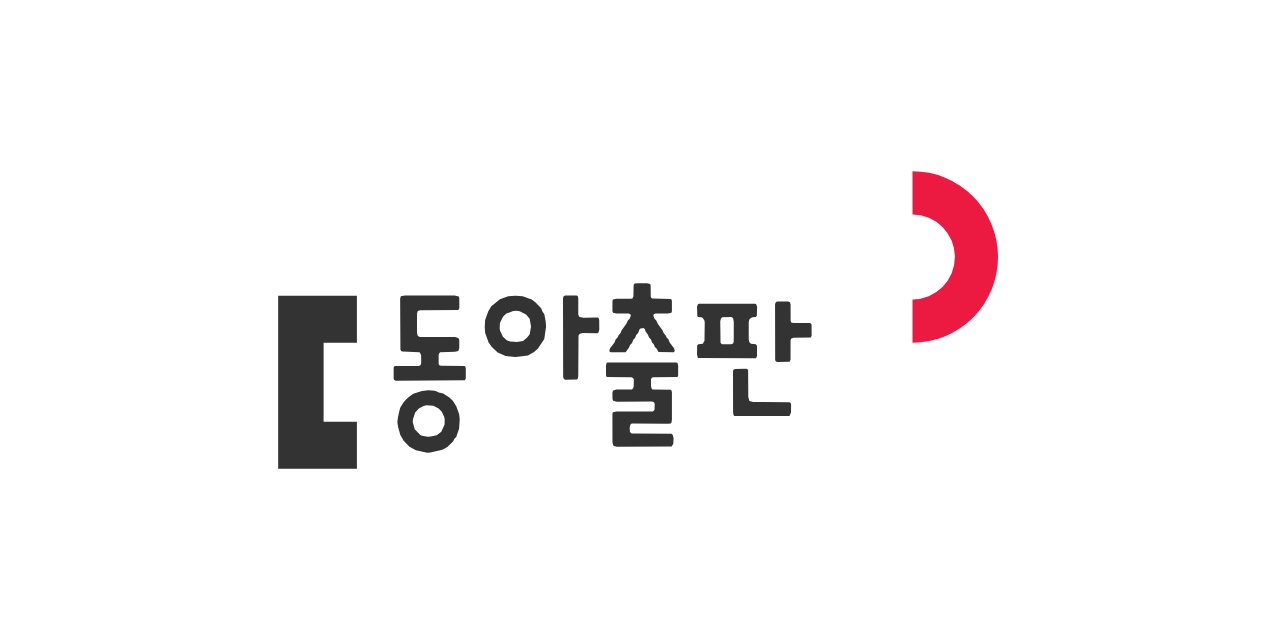
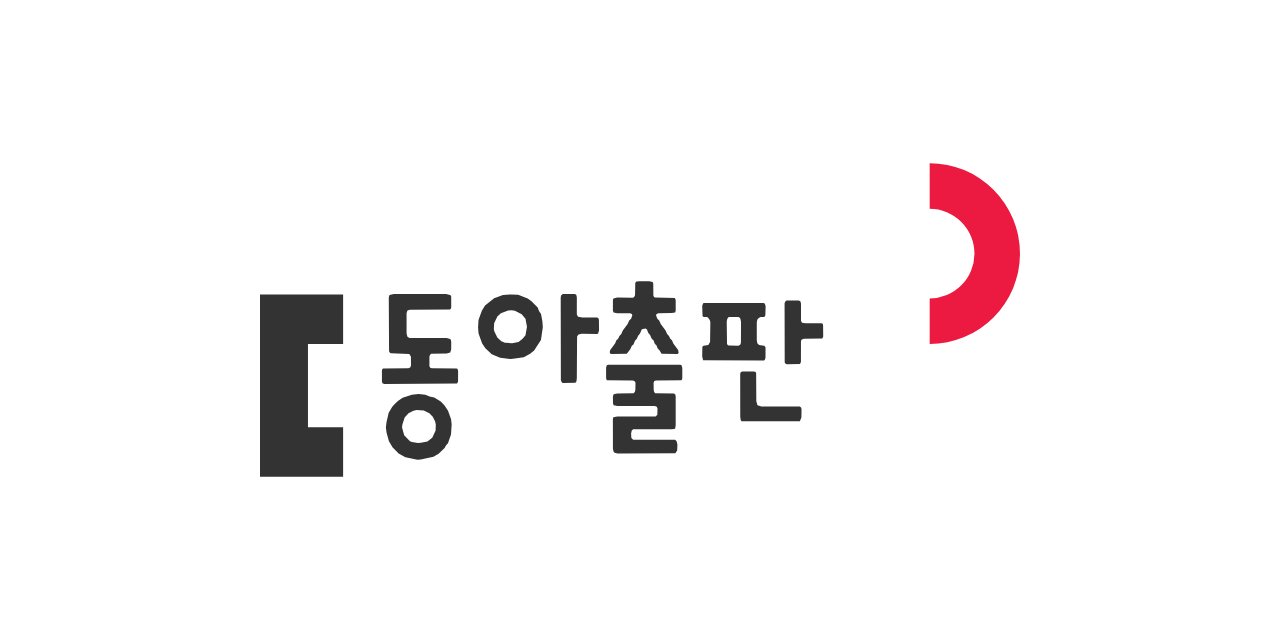
v1.1.0: 태블릿 레이아웃(tablet.md, 세로 2열, 가로 두 칸), 로고 좌우 여백 없앰, 점검 기본 폭 390/820/1180
Claude-Session: https://claude.ai/code/session_01MdmEQw5rR9YRbyCWYc5DzQ

Changed region(s): [[0.1875, 0.4375, 0.6562, 0.75], [0.6875, 0.25, 0.8125, 0.5625]]

diff --git a/skills/donga-design/assets/examples/climate-quiz/index.html b/skills/donga-design/assets/examples/climate-quiz/index.html
@@ -278,6 +278,17 @@
   .dc-content .pressable:active { transform: none; }
 }
 
+/* ===== 태블릿 (references/tablet.md) ===== */
+@media (pointer: coarse) {
+  .dc-content { --touch: var(--touch-class); --btn-h-s: var(--touch-class); }
+}
+@media (min-width: 744px) {
+  .dc-content { --page-x: 1.5rem; --fs-body-lg: 1.125rem; }
+}
+@media (min-width: 1024px) and (orientation: landscape) {
+  .dc-content { --page-x: 2rem; }
+}
+
 
 .dc-content .dc-logo { display: block; width: 100%; max-width: 15rem; height: auto; overflow: visible; }
 .dc-content .dc-logo .dc-logo-d,
@@ -290,15 +301,15 @@
 .dc-content .dc-logo.is-open .dc-logo-word { animation: dc-logo-word 1.5s cubic-bezier(0.2, 0, 0, 1) both; }
 
 @keyframes dc-logo-d {
-  0%   { transform: translate(184.75px, -41.25px); opacity: 0; }
-  15%  { transform: translate(184.75px, -41.25px); opacity: 1; }
-  35%  { transform: translate(184.75px, -41.25px); }
+  0%   { transform: translate(183.5px, -41.25px); opacity: 0; }
+  15%  { transform: translate(183.5px, -41.25px); opacity: 1; }
+  35%  { transform: translate(183.5px, -41.25px); }
   80%, 100% { transform: translate(0, 0); opacity: 1; }
 }
 @keyframes dc-logo-o {
-  0%   { transform: translate(-182.25px, 41.25px); opacity: 0; }
-  15%  { transform: translate(-182.25px, 41.25px); opacity: 1; }
-  35%  { transform: translate(-182.25px, 41.25px); }
+  0%   { transform: translate(-183.5px, 41.25px); opacity: 0; }
+  15%  { transform: translate(-183.5px, 41.25px); opacity: 1; }
+  35%  { transform: translate(-183.5px, 41.25px); }
   80%, 100% { transform: translate(0, 0); opacity: 1; }
 }
 @keyframes dc-logo-word {
@@ -347,9 +358,9 @@
 .dc-content .card { background: var(--surface); border-radius: var(--r-card); padding: var(--sp-6); }
 .dc-content .q-title { font-size: var(--fs-title-s); font-weight: var(--fw-bold); margin-bottom: var(--sp-2); }
 .dc-content .q-desc { color: var(--text-muted); margin: 0 0 var(--sp-5); }
-.dc-content .chart { display: block; width: 100%; height: auto; margin-bottom: var(--sp-2); }
+.dc-content .chart { display: block; width: 100%; height: auto; overflow: visible; margin-bottom: var(--sp-2); }
 .dc-content .chart .ax { stroke: var(--line-strong); }
-.dc-content .chart .lbl { fill: var(--text-muted); font-size: 12px; }
+.dc-content .chart .lbl { fill: var(--text-muted); font-size: 13px; }
 .dc-content .chart .rain { fill: var(--second); opacity: 0.3; }
 .dc-content .chart .temp { stroke: var(--accent); fill: none; stroke-width: 2.5; }
 .dc-content .table-alt { margin-bottom: var(--sp-4); color: var(--text-muted); font-size: var(--fs-small); }
@@ -382,6 +393,28 @@
 .dc-content .done { text-align: center; }
 .dc-content .done-sub { margin: 0; color: var(--text-muted); }
 .dc-content .done .big { font-size: var(--fs-title); font-weight: var(--fw-bold); margin: var(--sp-2) 0 var(--sp-6); }
+
+.dc-content .quiz-grid { display: grid; gap: var(--sp-3); }
+.dc-content .quiz-grid .opts { margin-bottom: 0; }
+.dc-content .quiz-grid #fb:not(:empty) { margin-top: var(--sp-4); }
+.dc-content .table-alt { margin-bottom: 0; }
+
+/* 태블릿 세로: 넓은 한 칸, 선택지 2열 */
+@media (min-width: 744px) {
+  .dc-content .qz { max-width: 44rem; padding-top: var(--sp-8); }
+  .dc-content .opts { grid-template-columns: 1fr 1fr; }
+  .dc-content .intro, .dc-content .done { max-width: 32rem; margin-left: auto; margin-right: auto; }
+}
+/* 태블릿 가로: 그림 왼쪽(고정), 문제 오른쪽 */
+@media (min-width: 1024px) and (orientation: landscape) {
+  .dc-content .qz { max-width: 72rem; }
+  .dc-content .quiz-grid { grid-template-columns: minmax(0, 3fr) minmax(20rem, 2fr); gap: var(--sp-6); align-items: start; }
+  .dc-content .quiz-grid .progress { grid-column: 1 / -1; margin-bottom: 0; }
+  .dc-content .stage { position: sticky; top: var(--sp-6); }
+  .dc-content .stage .chart { max-height: calc(100dvh - 18rem); }
+  .dc-content .opts { grid-template-columns: 1fr; }
+}
+.dc-content .actions { padding-bottom: calc(var(--sp-4) + env(safe-area-inset-bottom)); }
 .dc-content [hidden] { display: none; }
 </style>
 </head>
@@ -397,7 +430,7 @@
     </div>
 
     <section class="intro" id="intro" aria-labelledby="intro-title">
-      <svg class="dc-logo is-open" viewBox="30 38 502 220" role="img" aria-label="동아출판">
+      <svg class="dc-logo is-open" viewBox="42 38 475.5 220" role="img" aria-label="동아출판">
   <g class="dc-logo-d"><path d="M42 132H94V163H72V215H94V246H42Z"/></g>
   <g class="dc-logo-word"><path fill-rule="evenodd" d="M303.34 169.25 303.93 168.50 303.61 166.75 300.61 162.75 299.75 160.68 298.70 159.75 297.88 158.00 296.71 156.75 295.75 154.62 292.73 150.50 291.75 148.34 290.58 147.25 289.79 145.00 290.11 144.25 291.25 143.72 299.50 143.70 301.74 143.25 302.08 142.25 302.08 135.50 301.57 134.25 289.00 133.89 288.31 133.25 288.11 132.50 288.04 125.25 287.66 124.25 285.50 123.81 279.75 123.78 277.50 124.01 276.80 124.75 276.64 132.50 276.00 133.77 275.00 134.03 265.50 134.00 263.13 134.50 262.81 135.50 262.79 142.00 263.21 143.25 265.50 143.71 273.50 143.72 274.64 144.25 274.96 145.00 274.17 147.25 273.00 148.34 272.02 150.50 269.00 154.62 268.04 156.75 266.88 158.00 266.05 159.75 265.00 160.68 264.14 162.75 261.14 166.75 260.80 168.00 261.01 169.00 262.00 169.30 271.50 169.17 273.75 166.15 274.56 164.25 275.75 163.09 276.59 161.00 277.78 159.75 278.50 157.96 279.75 156.51 280.81 154.00 281.50 153.56 283.25 153.30 284.14 154.00 284.78 155.75 286.16 157.50 286.99 159.50 288.25 160.88 289.00 162.89 290.10 164.00 290.85 165.75 292.04 167.00 293.25 169.16 303.34 169.25ZM165.31 187.75 165.92 186.50 165.94 179.75 165.49 178.50 164.75 178.24 149.50 178.19 148.50 177.83 148.00 176.91 147.99 171.00 148.26 170.00 149.00 169.17 158.75 168.99 161.00 168.35 161.62 166.50 161.64 162.00 161.50 160.68 161.00 159.82 158.75 159.20 135.50 159.22 134.25 158.48 133.71 156.50 133.70 143.75 134.25 142.02 135.75 141.58 160.75 141.38 161.38 141.00 161.64 140.25 161.63 133.50 161.30 132.50 158.50 131.82 125.75 131.79 123.00 132.39 122.57 134.00 122.75 167.53 123.25 168.48 124.00 168.82 135.42 169.25 136.44 171.00 136.47 176.50 135.99 177.75 134.75 178.22 119.00 178.34 118.39 179.00 118.28 179.75 118.29 186.50 118.62 187.50 119.75 187.94 165.31 187.75ZM239.35 187.25 239.95 186.50 240.22 184.50 240.39 158.25 241.25 157.06 243.25 156.61 253.00 156.68 253.50 156.41 254.11 154.50 254.05 148.00 253.75 146.83 253.00 146.38 243.75 146.44 241.00 145.99 240.22 144.50 240.23 133.75 239.87 132.25 239.00 131.79 231.50 131.79 230.44 132.50 230.14 133.75 230.24 185.50 230.75 186.89 231.50 187.34 239.35 187.25ZM200.31 172.25 207.00 171.32 211.00 169.12 213.51 167.00 217.77 160.50 218.95 152.50 218.69 149.00 217.83 144.25 216.63 142.50 215.73 140.25 211.86 136.25 209.50 134.54 203.50 132.28 198.75 132.01 194.00 132.38 188.50 134.38 182.79 139.00 180.80 142.25 178.71 148.00 178.44 152.75 178.74 156.50 181.00 162.76 183.00 165.63 187.00 169.45 192.25 171.67 198.50 172.38 200.31 172.25ZM379.84 175.50 380.44 174.25 380.46 161.50 380.75 160.40 382.25 159.77 393.84 159.50 394.37 158.25 394.30 151.00 393.86 150.25 393.25 150.03 383.25 150.04 381.09 149.75 380.48 148.50 380.48 137.75 380.07 136.25 379.00 135.80 371.50 135.89 370.75 136.30 370.21 137.50 370.29 174.50 370.72 175.25 371.50 175.62 379.84 175.50ZM357.40 173.25 357.96 172.75 358.28 171.50 358.29 165.00 357.50 164.04 354.25 163.66 353.14 162.50 352.82 160.50 352.82 149.25 353.20 147.75 354.00 146.79 355.25 146.16 357.50 146.05 358.18 145.25 358.35 139.25 357.75 137.62 357.00 137.33 320.00 137.34 319.25 137.59 318.66 139.25 318.89 145.50 319.50 146.08 321.50 146.12 322.27 146.50 323.40 148.00 323.76 149.25 323.60 161.75 322.50 163.64 319.50 164.03 318.77 164.75 318.66 170.75 319.25 173.10 357.40 173.25ZM199.75 162.52 195.25 162.16 193.00 161.32 190.47 159.00 188.65 155.25 188.30 153.75 188.49 150.00 190.50 145.82 192.71 143.75 197.25 142.02 199.50 141.91 201.50 142.26 205.75 144.36 208.10 147.25 209.03 152.25 208.11 157.50 206.29 159.75 203.75 161.81 199.75 162.52ZM341.25 164.03 335.50 164.01 334.75 163.72 334.20 163.00 334.01 149.00 334.38 147.25 335.25 146.19 341.25 146.09 342.00 146.39 342.58 147.25 342.96 149.25 342.90 162.25 342.47 163.50 341.25 164.03ZM301.86 231.25 303.01 229.50 303.16 225.75 302.65 223.75 301.75 222.86 275.50 222.77 274.34 221.75 274.18 219.00 274.59 217.00 275.50 216.24 299.50 216.28 301.25 216.10 301.75 215.74 302.08 213.75 302.08 195.75 301.82 194.50 301.00 193.91 289.24 193.75 288.61 193.00 288.32 191.75 288.25 187.25 288.75 186.12 289.75 185.78 305.75 185.58 306.20 184.50 306.22 178.00 305.76 176.25 305.00 175.99 259.75 175.99 259.00 176.24 258.53 177.75 258.55 184.50 259.00 185.58 275.25 185.75 276.44 186.25 276.93 187.25 276.84 191.75 276.47 193.00 275.75 193.74 265.50 193.86 263.25 194.41 262.79 195.75 262.85 200.00 263.25 201.26 265.75 201.80 289.00 201.75 290.25 202.21 290.71 203.25 290.60 207.25 289.50 208.25 265.50 208.26 263.12 208.75 262.78 209.75 262.81 228.50 263.29 230.50 263.91 231.00 265.75 231.47 301.86 231.25ZM379.76 211.25 380.74 209.00 380.82 203.75 380.52 202.75 379.75 202.11 355.75 202.02 353.25 201.35 352.53 198.75 352.41 181.00 351.75 180.33 351.00 180.18 343.75 180.21 342.75 180.70 342.44 181.75 342.47 208.50 342.76 210.50 343.25 211.24 379.76 211.25ZM142.56 235.25 150.52 233.50 153.75 231.66 157.50 227.99 158.44 226.25 159.60 225.00 161.50 219.57 161.91 213.25 161.55 210.00 159.64 204.75 157.34 201.25 155.10 199.00 151.00 196.41 148.12 195.75 145.50 194.66 141.25 194.32 137.00 194.73 131.25 196.64 128.50 198.49 126.62 200.25 124.75 202.28 122.52 206.00 121.18 211.75 120.74 215.25 121.20 218.50 122.68 223.75 124.90 227.50 128.72 231.50 133.00 233.82 140.50 235.40 142.56 235.25ZM142.75 224.77 140.75 224.91 137.00 224.26 135.84 223.75 132.20 220.00 130.86 215.25 131.09 213.25 132.50 208.86 134.93 206.25 138.00 204.69 140.00 204.18 144.50 204.55 147.97 206.25 150.10 208.50 151.57 211.50 151.98 213.25 151.88 217.00 149.75 221.64 146.75 223.92 142.75 224.77Z"/></g>
   <g class="dc-logo-o"><path d="M461 50A56.5 56.5 0 0 1 461 163V134.5A28 28 0 0 0 461 78.5Z"/></g>
@@ -407,17 +440,21 @@
       <button type="button" class="btn btn-primary btn-block" id="start">문제 풀기 시작</button>
     </section>
 
-    <section id="quiz" hidden>
+    <section id="quiz" class="quiz-grid" hidden>
       <div class="progress"><span class="num" id="step">1 / 3</span><div class="bar" aria-hidden="true"><div class="bar-fill" id="bar"></div></div></div>
-      <div class="card">
+      <div class="card stage">
         <h2 class="dc-h2 q-title" id="q-title"></h2>
-        <p class="q-desc">막대는 강수량, 선은 기온이에요.</p>
+        <p class="q-desc">막대는 강수량, 선은 기온이에요. 아래 숫자는 월이에요.</p>
         <svg class="chart" id="chart" viewBox="0 0 320 152" role="img" aria-labelledby="chart-desc"><desc id="chart-desc"></desc></svg>
         <details class="table-alt"><summary>같은 자료를 표로 보기</summary><table id="tbl"></table></details>
-        <div class="opts" role="radiogroup" aria-labelledby="q-title" id="opts"></div>
-        <div id="fb" aria-live="polite"></div>
       </div>
-      <div class="actions"><button type="button" class="btn btn-primary btn-block" id="check" disabled>정답 확인하기</button></div>
+      <div class="panel">
+        <div class="card">
+          <div class="opts" role="radiogroup" aria-labelledby="q-title" id="opts"></div>
+          <div id="fb" aria-live="polite"></div>
+        </div>
+        <div class="actions"><button type="button" class="btn btn-primary btn-block" id="check" disabled>정답 확인하기</button></div>
+      </div>
     </section>
 
     <section class="card done" id="done" hidden>
@@ -467,16 +504,20 @@
   var CHOICES = ['열대 우림 기후', '사막 기후', '지중해성 기후', '냉대 기후'];
   var idx = 0, picked = -1, checked = false, score = 0;
 
+  /* 그래프는 실제 표시 폭으로 viewBox를 잡아 글자 크기가 화면 폭에 따라 커지지 않게 한다 */
   function drawChart(q) {
     var svg = $('chart');
     while (svg.lastChild && svg.lastChild.nodeName !== 'desc') svg.removeChild(svg.lastChild);
-    var x0 = 8, w = 304, top = 6, h = 120, bw = w / 12;
+    var W = Math.max(280, Math.round(svg.getBoundingClientRect().width) || 320);
+    var H = Math.round(Math.min(300, Math.max(160, W * 0.42)));
+    svg.setAttribute('viewBox', '0 0 ' + W + ' ' + H);
+    var x0 = 4, w = W - 8, top = 6, h = H - 34, bw = w / 12;
     svg.appendChild(svgEl('line', { class: 'ax', x1: x0, y1: top + h, x2: x0 + w, y2: top + h }));
     q.rain.forEach(function (r, i) {
       var bh = r / 320 * h;
-      svg.appendChild(svgEl('rect', { class: 'rain', x: x0 + i * bw + 3, y: top + h - bh, width: bw - 6, height: bh, rx: 2 }));
-      var t = svgEl('text', { class: 'lbl', x: x0 + i * bw + bw / 2, y: top + h + 18, 'text-anchor': 'middle' });
-      t.textContent = (i + 1) + '월';
+      svg.appendChild(svgEl('rect', { class: 'rain', x: x0 + i * bw + bw * 0.15, y: top + h - bh, width: bw * 0.7, height: bh, rx: 2 }));
+      var t = svgEl('text', { class: 'lbl', x: x0 + i * bw + bw / 2, y: top + h + 20, 'text-anchor': 'middle' });
+      t.textContent = bw < 36 ? String(i + 1) : (i + 1) + '월';  /* 좁으면 숫자만 */
       svg.appendChild(t);
     });
     var pts = q.temp.map(function (t, i) { return (x0 + i * bw + bw / 2) + ',' + (top + h - (t + 25) / 60 * h); }).join(' ');
@@ -562,6 +603,14 @@
   $('start').addEventListener('click', start);
   $('again').addEventListener('click', start);
   $('check').addEventListener('click', check);
+  /* 화면 방향이나 폭이 바뀌면 그래프만 다시 그린다. 고른 답과 푼 상태는 그대로 */
+  if (window.ResizeObserver) {
+    var lastW = 0;
+    new ResizeObserver(function (en) {
+      var cw = Math.round(en[0].contentRect.width);
+      if (cw && cw !== lastW && !$('quiz').hidden) { lastW = cw; drawChart(QUESTIONS[idx]); }
+    }).observe($('chart'));
+  }
 })();
 </script>
 </body>

diff --git a/skills/donga-design/assets/logo/logo-open.snippet.html b/skills/donga-design/assets/logo/logo-open.snippet.html
@@ -6,7 +6,7 @@
   - 다시 재생: svg 요소의 classList에서 is-open을 뺐다가 다음 프레임에 다시 넣는다.
   - 움직임 줄이기 설정이면 처음부터 열린 모습으로 보인다.
 -->
-<svg class="dc-logo is-open" viewBox="30 38 502 220" role="img" aria-label="동아출판">
+<svg class="dc-logo is-open" viewBox="42 38 475.5 220" role="img" aria-label="동아출판">
   <g class="dc-logo-d"><path d="M42 132H94V163H72V215H94V246H42Z"/></g>
   <g class="dc-logo-word"><path fill-rule="evenodd" d="M303.34 169.25 303.93 168.50 303.61 166.75 300.61 162.75 299.75 160.68 298.70 159.75 297.88 158.00 296.71 156.75 295.75 154.62 292.73 150.50 291.75 148.34 290.58 147.25 289.79 145.00 290.11 144.25 291.25 143.72 299.50 143.70 301.74 143.25 302.08 142.25 302.08 135.50 301.57 134.25 289.00 133.89 288.31 133.25 288.11 132.50 288.04 125.25 287.66 124.25 285.50 123.81 279.75 123.78 277.50 124.01 276.80 124.75 276.64 132.50 276.00 133.77 275.00 134.03 265.50 134.00 263.13 134.50 262.81 135.50 262.79 142.00 263.21 143.25 265.50 143.71 273.50 143.72 274.64 144.25 274.96 145.00 274.17 147.25 273.00 148.34 272.02 150.50 269.00 154.62 268.04 156.75 266.88 158.00 266.05 159.75 265.00 160.68 264.14 162.75 261.14 166.75 260.80 168.00 261.01 169.00 262.00 169.30 271.50 169.17 273.75 166.15 274.56 164.25 275.75 163.09 276.59 161.00 277.78 159.75 278.50 157.96 279.75 156.51 280.81 154.00 281.50 153.56 283.25 153.30 284.14 154.00 284.78 155.75 286.16 157.50 286.99 159.50 288.25 160.88 289.00 162.89 290.10 164.00 290.85 165.75 292.04 167.00 293.25 169.16 303.34 169.25ZM165.31 187.75 165.92 186.50 165.94 179.75 165.49 178.50 164.75 178.24 149.50 178.19 148.50 177.83 148.00 176.91 147.99 171.00 148.26 170.00 149.00 169.17 158.75 168.99 161.00 168.35 161.62 166.50 161.64 162.00 161.50 160.68 161.00 159.82 158.75 159.20 135.50 159.22 134.25 158.48 133.71 156.50 133.70 143.75 134.25 142.02 135.75 141.58 160.75 141.38 161.38 141.00 161.64 140.25 161.63 133.50 161.30 132.50 158.50 131.82 125.75 131.79 123.00 132.39 122.57 134.00 122.75 167.53 123.25 168.48 124.00 168.82 135.42 169.25 136.44 171.00 136.47 176.50 135.99 177.75 134.75 178.22 119.00 178.34 118.39 179.00 118.28 179.75 118.29 186.50 118.62 187.50 119.75 187.94 165.31 187.75ZM239.35 187.25 239.95 186.50 240.22 184.50 240.39 158.25 241.25 157.06 243.25 156.61 253.00 156.68 253.50 156.41 254.11 154.50 254.05 148.00 253.75 146.83 253.00 146.38 243.75 146.44 241.00 145.99 240.22 144.50 240.23 133.75 239.87 132.25 239.00 131.79 231.50 131.79 230.44 132.50 230.14 133.75 230.24 185.50 230.75 186.89 231.50 187.34 239.35 187.25ZM200.31 172.25 207.00 171.32 211.00 169.12 213.51 167.00 217.77 160.50 218.95 152.50 218.69 149.00 217.83 144.25 216.63 142.50 215.73 140.25 211.86 136.25 209.50 134.54 203.50 132.28 198.75 132.01 194.00 132.38 188.50 134.38 182.79 139.00 180.80 142.25 178.71 148.00 178.44 152.75 178.74 156.50 181.00 162.76 183.00 165.63 187.00 169.45 192.25 171.67 198.50 172.38 200.31 172.25ZM379.84 175.50 380.44 174.25 380.46 161.50 380.75 160.40 382.25 159.77 393.84 159.50 394.37 158.25 394.30 151.00 393.86 150.25 393.25 150.03 383.25 150.04 381.09 149.75 380.48 148.50 380.48 137.75 380.07 136.25 379.00 135.80 371.50 135.89 370.75 136.30 370.21 137.50 370.29 174.50 370.72 175.25 371.50 175.62 379.84 175.50ZM357.40 173.25 357.96 172.75 358.28 171.50 358.29 165.00 357.50 164.04 354.25 163.66 353.14 162.50 352.82 160.50 352.82 149.25 353.20 147.75 354.00 146.79 355.25 146.16 357.50 146.05 358.18 145.25 358.35 139.25 357.75 137.62 357.00 137.33 320.00 137.34 319.25 137.59 318.66 139.25 318.89 145.50 319.50 146.08 321.50 146.12 322.27 146.50 323.40 148.00 323.76 149.25 323.60 161.75 322.50 163.64 319.50 164.03 318.77 164.75 318.66 170.75 319.25 173.10 357.40 173.25ZM199.75 162.52 195.25 162.16 193.00 161.32 190.47 159.00 188.65 155.25 188.30 153.75 188.49 150.00 190.50 145.82 192.71 143.75 197.25 142.02 199.50 141.91 201.50 142.26 205.75 144.36 208.10 147.25 209.03 152.25 208.11 157.50 206.29 159.75 203.75 161.81 199.75 162.52ZM341.25 164.03 335.50 164.01 334.75 163.72 334.20 163.00 334.01 149.00 334.38 147.25 335.25 146.19 341.25 146.09 342.00 146.39 342.58 147.25 342.96 149.25 342.90 162.25 342.47 163.50 341.25 164.03ZM301.86 231.25 303.01 229.50 303.16 225.75 302.65 223.75 301.75 222.86 275.50 222.77 274.34 221.75 274.18 219.00 274.59 217.00 275.50 216.24 299.50 216.28 301.25 216.10 301.75 215.74 302.08 213.75 302.08 195.75 301.82 194.50 301.00 193.91 289.24 193.75 288.61 193.00 288.32 191.75 288.25 187.25 288.75 186.12 289.75 185.78 305.75 185.58 306.20 184.50 306.22 178.00 305.76 176.25 305.00 175.99 259.75 175.99 259.00 176.24 258.53 177.75 258.55 184.50 259.00 185.58 275.25 185.75 276.44 186.25 276.93 187.25 276.84 191.75 276.47 193.00 275.75 193.74 265.50 193.86 263.25 194.41 262.79 195.75 262.85 200.00 263.25 201.26 265.75 201.80 289.00 201.75 290.25 202.21 290.71 203.25 290.60 207.25 289.50 208.25 265.50 208.26 263.12 208.75 262.78 209.75 262.81 228.50 263.29 230.50 263.91 231.00 265.75 231.47 301.86 231.25ZM379.76 211.25 380.74 209.00 380.82 203.75 380.52 202.75 379.75 202.11 355.75 202.02 353.25 201.35 352.53 198.75 352.41 181.00 351.75 180.33 351.00 180.18 343.75 180.21 342.75 180.70 342.44 181.75 342.47 208.50 342.76 210.50 343.25 211.24 379.76 211.25ZM142.56 235.25 150.52 233.50 153.75 231.66 157.50 227.99 158.44 226.25 159.60 225.00 161.50 219.57 161.91 213.25 161.55 210.00 159.64 204.75 157.34 201.25 155.10 199.00 151.00 196.41 148.12 195.75 145.50 194.66 141.25 194.32 137.00 194.73 131.25 196.64 128.50 198.49 126.62 200.25 124.75 202.28 122.52 206.00 121.18 211.75 120.74 215.25 121.20 218.50 122.68 223.75 124.90 227.50 128.72 231.50 133.00 233.82 140.50 235.40 142.56 235.25ZM142.75 224.77 140.75 224.91 137.00 224.26 135.84 223.75 132.20 220.00 130.86 215.25 131.09 213.25 132.50 208.86 134.93 206.25 138.00 204.69 140.00 204.18 144.50 204.55 147.97 206.25 150.10 208.50 151.57 211.50 151.98 213.25 151.88 217.00 149.75 221.64 146.75 223.92 142.75 224.77Z"/></g>
   <g class="dc-logo-o"><path d="M461 50A56.5 56.5 0 0 1 461 163V134.5A28 28 0 0 0 461 78.5Z"/></g>
@@ -24,15 +24,15 @@
 .dc-content .dc-logo.is-open .dc-logo-word { animation: dc-logo-word 1.5s cubic-bezier(0.2, 0, 0, 1) both; }
 
 @keyframes dc-logo-d {
-  0%   { transform: translate(184.75px, -41.25px); opacity: 0; }
-  15%  { transform: translate(184.75px, -41.25px); opacity: 1; }
-  35%  { transform: translate(184.75px, -41.25px); }
+  0%   { transform: translate(183.5px, -41.25px); opacity: 0; }
+  15%  { transform: translate(183.5px, -41.25px); opacity: 1; }
+  35%  { transform: translate(183.5px, -41.25px); }
   80%, 100% { transform: translate(0, 0); opacity: 1; }
 }
 @keyframes dc-logo-o {
-  0%   { transform: translate(-182.25px, 41.25px); opacity: 0; }
-  15%  { transform: translate(-182.25px, 41.25px); opacity: 1; }
-  35%  { transform: translate(-182.25px, 41.25px); }
+  0%   { transform: translate(-183.5px, 41.25px); opacity: 0; }
+  15%  { transform: translate(-183.5px, 41.25px); opacity: 1; }
+  35%  { transform: translate(-183.5px, 41.25px); }
   80%, 100% { transform: translate(0, 0); opacity: 1; }
 }
 @keyframes dc-logo-word {

diff --git a/skills/donga-design/assets/tokens.css b/skills/donga-design/assets/tokens.css
@@ -269,3 +269,14 @@
   .dc-content { --dur-fast: 0ms; --dur: 0ms; --dur-slow: 0ms; }
   .dc-content .pressable:active { transform: none; }
 }
+
+/* ===== 태블릿 (references/tablet.md) ===== */
+@media (pointer: coarse) {
+  .dc-content { --touch: var(--touch-class); --btn-h-s: var(--touch-class); }
+}
+@media (min-width: 744px) {
+  .dc-content { --page-x: 1.5rem; --fs-body-lg: 1.125rem; }
+}
+@media (min-width: 1024px) and (orientation: landscape) {
+  .dc-content { --page-x: 2rem; }
+}

diff --git a/skills/donga-design/references/tablet.md b/skills/donga-design/references/tablet.md
@@ -1,0 +1,80 @@
+# 태블릿 레이아웃
+
+동아출판 자료는 교실에서 학생 태블릿(아이패드, 갤럭시 탭)으로 여는 일이 가장 많다. 휴대폰 화면을 늘리거나 데스크톱 화면을 줄인 것으로 끝내지 않고, 태블릿을 따로 설계한다.
+
+## 1. 기준 폭
+
+| 기기 | 세로 | 가로 |
+|---|---|---|
+| 아이패드 10세대, Air | 820 × 1180 | 1180 × 820 |
+| 아이패드 미니 | 744 × 1133 | 1133 × 744 |
+| 아이패드 Pro 12.9 | 1024 × 1366 | 1366 × 1024 |
+| 갤럭시 탭 S 시리즈 | 800 × 1280 안팎 | 1280 × 800 안팎 |
+
+- 구간: 휴대폰 `< 744px`, 태블릿 세로 `744~1023px`, 태블릿 가로와 작은 노트북 `1024~1366px`.
+- 폭만 보지 말고 방향(`orientation`)과 높이도 본다. 가로 태블릿은 높이가 744~820px뿐이다. 두클래스 뷰어 A 방식이면 머리와 꼬리 때문에 더 줄어든다. **가로 태블릿에서 첫 화면 핵심(그림과 조작)이 스크롤 없이 한 화면에 들어오게** 한다.
+- 터치 기기인지는 폭이 아니라 `@media (pointer: coarse)`로 판단한다. 태블릿에 키보드를 붙이고 마우스를 쓸 수도 있다.
+
+## 2. 배치
+
+**세로 태블릿 (744~1023px)**
+- 한 칸으로 쌓되 휴대폰보다 넓게 쓴다. 본문 폭은 40~44rem(640~700px)에서 멈추고 가운데 둔다. 글줄이 너무 길면 읽기 어렵다.
+- 그림(시뮬레이션, 지도, 그래프)은 폭을 다 쓰고, 그 아래 조작과 설명.
+- 선택지가 4개 이하이고 짧으면 2열 격자로 놓아 스크롤을 줄인다.
+
+**가로 태블릿 (1024px 이상, 가로 방향)**
+- **두 칸이 기본이다.** 왼쪽 넓은 칸(약 60%)에 그림이나 시뮬레이션, 오른쪽 칸(약 40%, 최소 320px)에 조작, 설명, 문제. 칸은 두 개까지(당토 규칙).
+- 오른쪽 칸만 스크롤되고 왼쪽 그림은 `position: sticky`로 제자리에 둔다. 학생이 문제를 풀면서 그림을 계속 볼 수 있다.
+- 주요 버튼은 오른쪽 칸 아래에 둔다. 화면 전체 폭의 하단 버튼으로 늘이지 않는다(1180px 폭의 버튼은 누르기도 읽기도 어렵다). 버튼 폭은 칸 폭을 따르고 최대 28rem 정도.
+- 가로 태블릿에서 그림 높이는 `min(화면 높이 - 머리 높이 - 여백, 그림 비율에 맞는 높이)`로 잡아 잘리지 않게 한다. `100dvh`를 쓴다(`100vh`는 아이패드 사파리 주소창 때문에 넘친다).
+
+**모든 태블릿**
+- 화면 좌우 여백: 세로 24px, 가로 32px.
+- 휴대폰 화면을 그대로 늘린 한 줄 목록, 화면 폭 꽉 찬 입력 칸을 피한다. 폭을 제한하거나 칸을 나눈다.
+- 대화상자는 바텀시트 대신 가운데 대화상자(최대 폭 28~32rem). 바텀시트는 휴대폰에서만.
+
+## 3. 손과 터치
+
+- 누르는 영역 48px 이상(`--touch-class`). 교실에서 학생이 책상 위에 태블릿을 두고 손가락으로 누른다.
+- 가로로 들고 쓸 때 엄지가 닿는 곳은 화면 양 옆 아래다. 자주 누르는 조작(다음, 확인, 계절 고르기)은 오른쪽 칸 아래쪽에 모은다. 화면 맨 위 가운데에는 자주 누르는 것을 두지 않는다.
+- 끌기, 핀치 확대는 태블릿에서 자연스럽지만 늘 버튼 대안(확대 버튼, 앞뒤 버튼)을 함께 둔다.
+- 마우스를 올려야만 보이는 정보(hover 툴팁)는 없다. 눌러서 보이게 한다. `@media (hover: hover)`일 때만 hover 효과를 더한다.
+- 그림 위 조작 요소는 서로 8px 이상 떨어뜨린다. 손가락은 커서보다 크다.
+
+## 4. 방향 바꾸기와 화면 키보드
+
+- 세로와 가로를 바꿔도 고른 값, 푼 문제, 시뮬레이션 상태가 그대로 남아야 한다. 방향이 바뀔 때 화면을 다시 만들지 말고 CSS로 배치만 바꾼다.
+- SVG, canvas는 크기가 바뀌면 다시 그리되 상태는 유지한다(`ResizeObserver`를 래퍼 안 요소에 건다).
+- 입력 칸을 누르면 화면 키보드가 아래 절반을 가린다. 입력 칸과 그 확인 버튼이 키보드 위에 보이도록, 입력이 있는 화면은 입력 칸을 화면 위쪽 절반에 둔다.
+- 아이패드의 안전 영역(둥근 모서리, 홈 막대)을 위해 아래쪽 여백에 `env(safe-area-inset-bottom)`을 더한다.
+
+## 5. 글자 크기
+
+- 태블릿 학생 화면 본문은 18px(`--fs-body-lg`)을 기본으로 한다. 팔 길이만큼 떨어져서 본다.
+- 교실 앞 화면(전자칠판)에 띄우는 화면이면 핵심 설명 24~28px부터 확인한다(`douclass.md`).
+- 큰 화면이라고 제목을 키우지 않는다. 위계는 회색 단계와 굵기로 만든다.
+
+## 6. CSS 틀
+
+```css
+/* 태블릿 세로: 한 칸, 넓은 본문 */
+@media (min-width: 744px) {
+  .dc-content .page { max-width: 44rem; margin: 0 auto; padding-left: 1.5rem; padding-right: 1.5rem; }
+  .dc-content .choices { grid-template-columns: 1fr 1fr; }
+}
+/* 태블릿 가로 이상: 두 칸 */
+@media (min-width: 1024px) and (orientation: landscape) {
+  .dc-content .page { max-width: 72rem; display: grid; grid-template-columns: minmax(0, 3fr) minmax(20rem, 2fr); gap: 2rem; align-items: start; padding-left: 2rem; padding-right: 2rem; }
+  .dc-content .stage { position: sticky; top: 1.5rem; }
+  .dc-content .stage svg { max-height: calc(100dvh - 8rem); }
+}
+@media (pointer: coarse) {
+  .dc-content { --touch: var(--touch-class); }
+}
+```
+
+## 7. 점검
+
+- `check.mjs`는 기본으로 390(휴대폰), 820(태블릿 세로), 1180(태블릿 가로) 폭을 본다.
+- 가로 태블릿 높이(820 × 1180 기준 가로는 높이 820)에서 첫 화면 핵심이 스크롤 없이 보이는지 화면을 찍어 눈으로 확인한다. 두클래스 A 방식이면 높이를 120px 정도 덜어서 본다.
+- 세로와 가로를 바꾼 뒤 상태가 남는지 확인한다.
